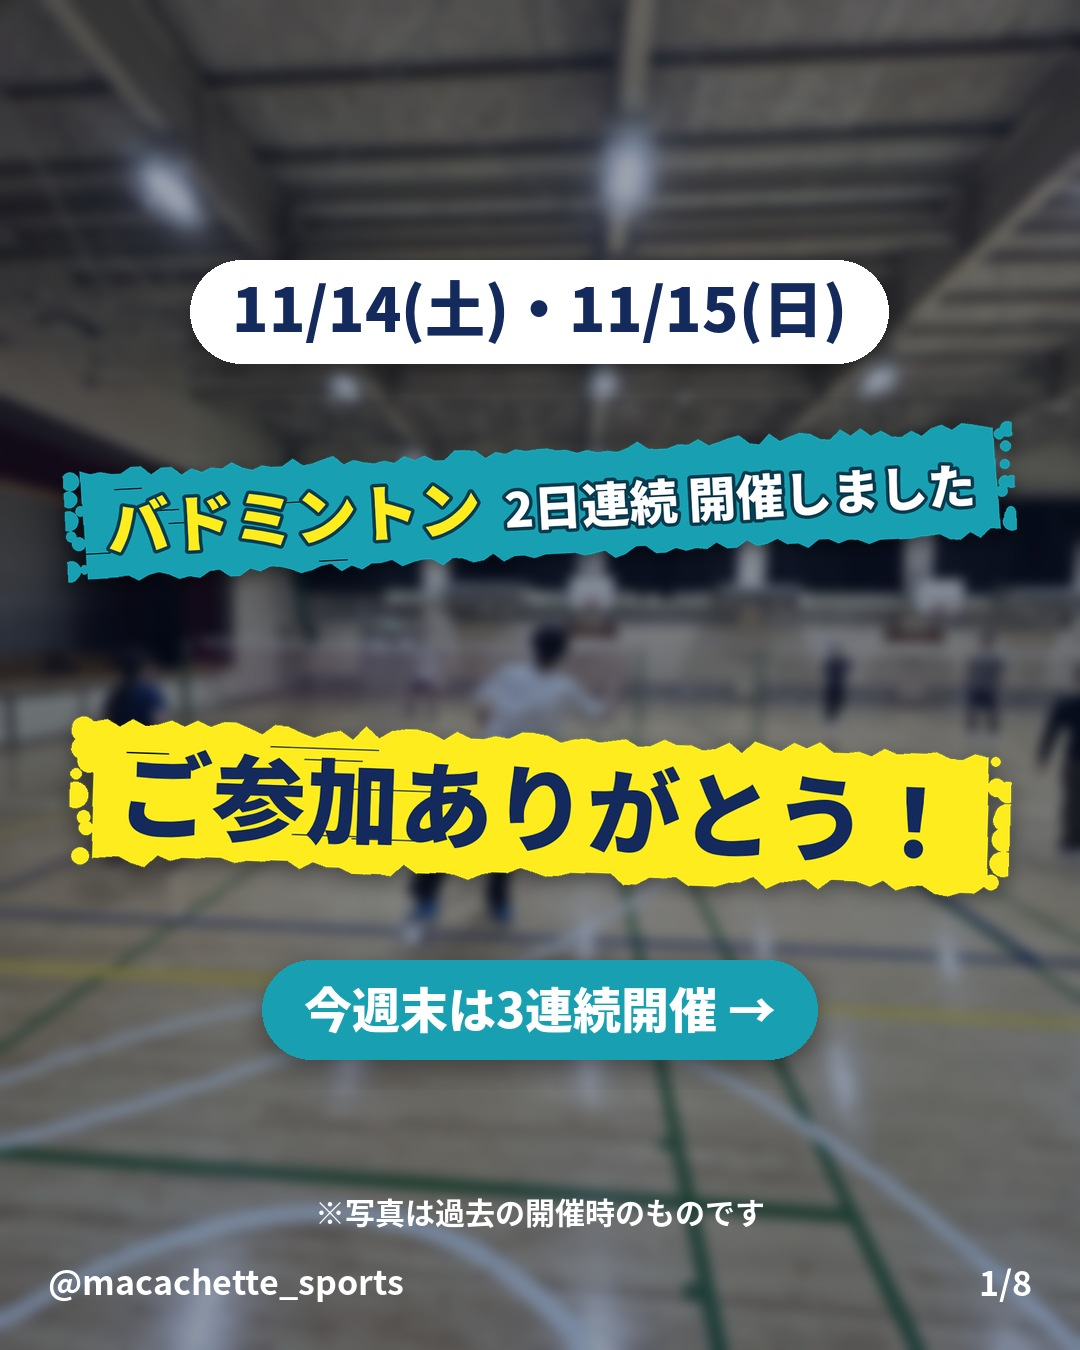
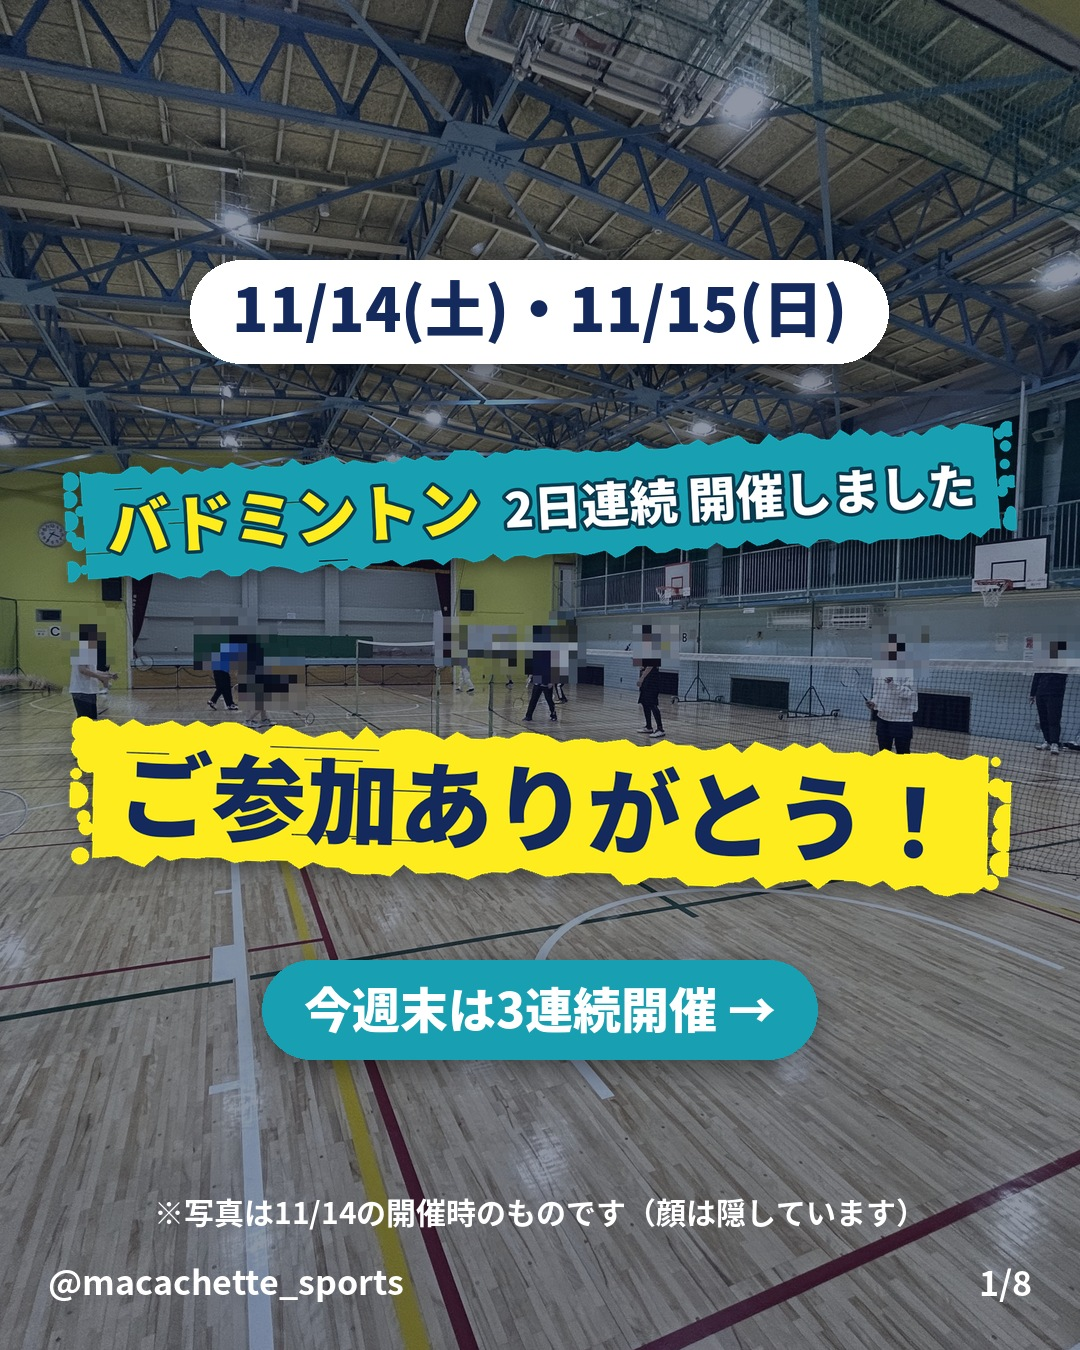
11/16 レポートカルーセル：表紙と2枚目を 11/14 当日の写真（顔だけモザイク）に。週次PDCA 11/15
Claude-Session: https://claude.ai/code/session_01AMWVn4qz4CoinGFCZUGXt8

diff --git a/studio/make_c1116.py b/studio/make_c1116.py
@@ -4,6 +4,10 @@
 使い方: cd studio && python3 make_c1116.py"""
 import os, shutil, json
 from make_c1105 import *
+import make_week1 as _w1
+from tools import people_bg
+people_bg.register(_w1)  # 11/15：11/14 当日の写真（顔だけモザイク・くっきり）を使う
+DAY14 = "※写真は11/14の開催時のものです（顔は隠しています）"
 
 OUT3 = os.path.join(D, "out", "c1116"); os.makedirs(OUT3, exist_ok=True)
 MEDIA = os.path.join(D, "..", "content", "instagram", "media")
@@ -22,18 +26,18 @@ def note(c, text, y=1190):
 
 
 # 1 表紙
-c = bg("bad", blur=6, dark=0.40)
+c = bg("b14_wide", blur=0, dark=0.45)
 put(c, fit(shadowed(pill([text_img("11/14(土)・11/15(日)", F(BLACK, 60), NAVY)], h=104))), W / 2, 230)
 put(c, fit(shadowed(headline("バドミントン", "2日連続 開催しました", seed=3, size=110))), W / 2, 400)
 put(c, fit(shadowed(yellow_band("ご参加ありがとう！", size=130, seed=7))), W / 2, 690)
 put(c, fit(shadowed(pill([text_img("今週末は3連続開催 →", F(BLACK, 48), WHITE)], h=100, bg=TEAL))), W / 2, 930)
-note(c, PAST); save3(c, 1)
+note(c, DAY14); save3(c, 1)
 
 # 2 会場
-c = bg("gym"); head(c, "2つの会場で", "開催しました", seed=4)
+c = bg("b14_court", blur=0, dark=0.55); head(c, "2つの会場で", "開催しました", seed=4)
 put(c, card(["11/14(土) 15:00-17:00", "まもりやまテラス", "新代田駅から徒歩約5分"], title="1日目", color=GRN, fs=46), W / 2, 280)
 put(c, card(["11/15(日) 13:00-15:00", "代々木の杜", "JR代々木駅から徒歩5分"], title="2日目", color=GRN, fs=46), W / 2, 740)
-note(c, PAST, 1180); save3(c, 2)
+note(c, DAY14, 1180); save3(c, 2)
 
 # 3 当日の流れ（例）
 c = bg("bad"); head(c, "バドの日は", "こんな流れ（例）", seed=5)
